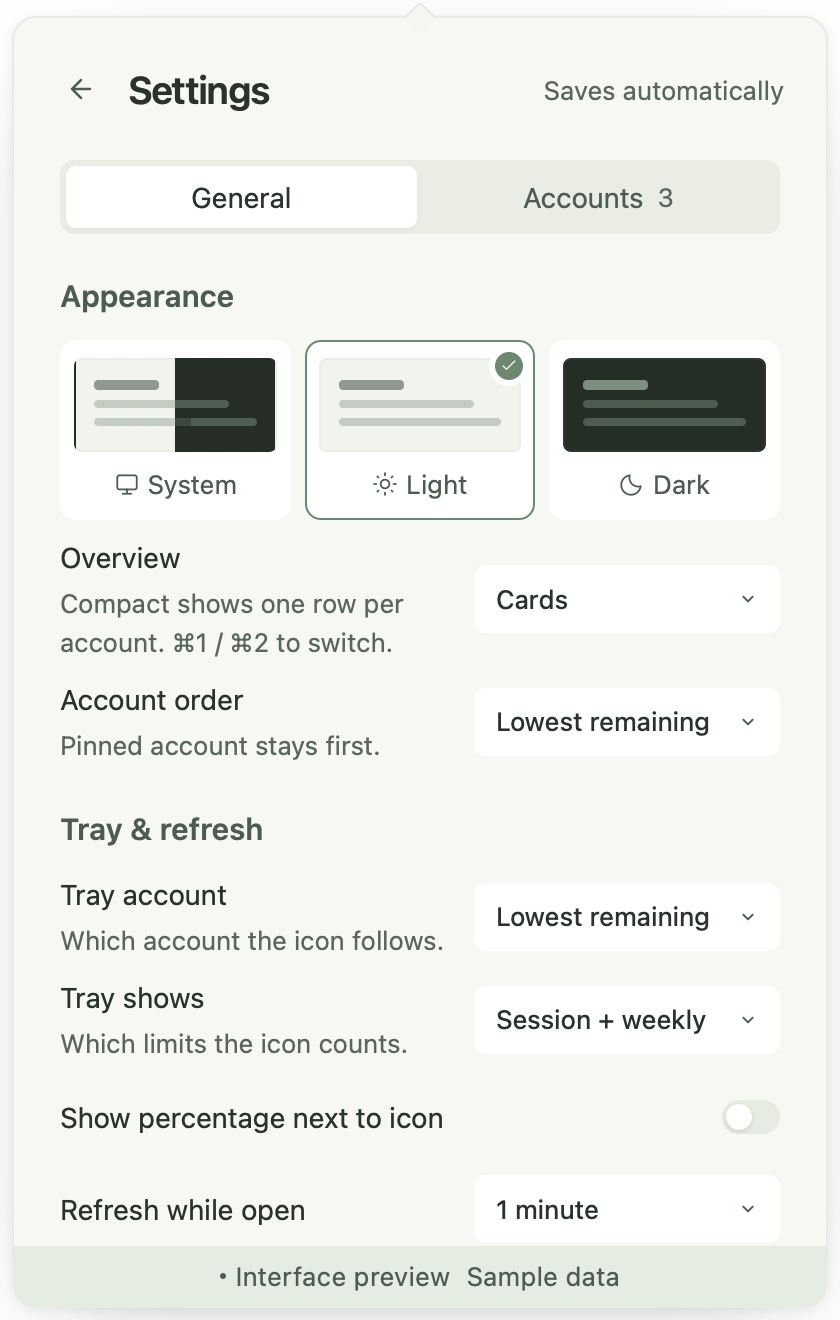
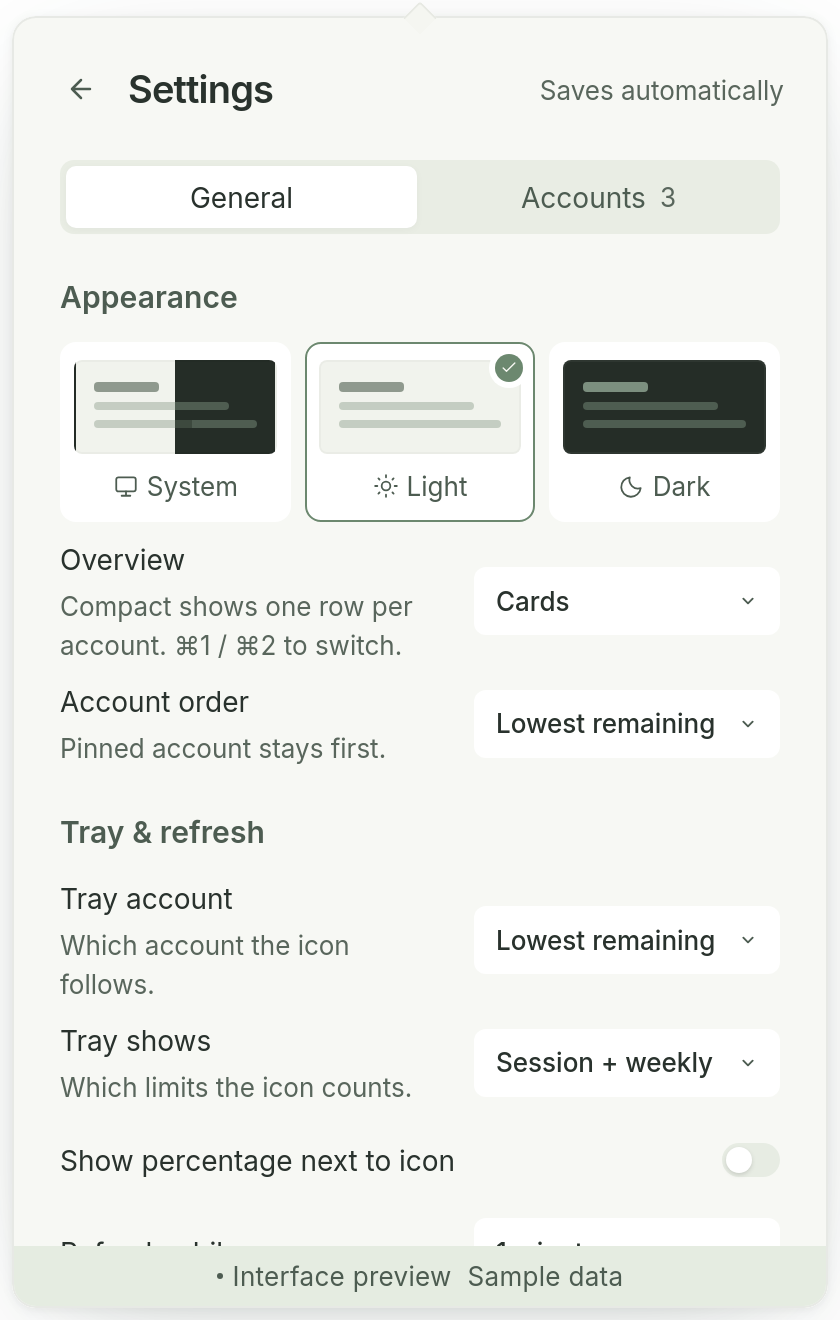
docs(readme): add hero image and refresh screenshots for launch
Lead the README with a hero image (menu bar, popover, and margin --line
in a terminal), a two-step install, the Claude Code statusline setup,
and compact/history previews. Move the full command line reference to
docs/cli.md and keep the #command-line anchor for older changelog links.

Recapture all sample-data screenshots from the current UI (v0.8.2) and
regenerate the social preview and site OG image, which still showed the
pre-v0.8 header. The demo GIF is outdated and no longer linked until it
is re-recorded.

diff --git a/README.md b/README.md
@@ -1,6 +1,6 @@
 # Margin
 
-**Claude Code and Codex usage in your menu bar.** See remaining quota and reset times across multiple accounts, from the macOS menu bar or the Windows system tray.
+**Claude Code and Codex usage in your menu bar.** Usage remaining and reset times for every account you use, in the macOS menu bar or the Windows system tray. Free and open source.
 
 [![CI](https://github.com/Abulkosim/margin/actions/workflows/ci.yml/badge.svg)](https://github.com/Abulkosim/margin/actions/workflows/ci.yml)
 [![Release](https://img.shields.io/github/v/release/Abulkosim/margin)](https://github.com/Abulkosim/margin/releases/latest)
@@ -9,23 +9,56 @@
 [![MIT license](https://img.shields.io/badge/license-MIT-747a87)](LICENSE)
 [![OpenSSF Scorecard](https://api.scorecard.dev/projects/github.com/Abulkosim/margin/badge)](https://scorecard.dev/viewer/?uri=github.com/Abulkosim/margin)
 
-[Download](https://github.com/Abulkosim/margin/releases/latest) · [Install](#install) · [Connect accounts](#connect-accounts) · [Privacy](#privacy) · [Changelog](CHANGELOG.md) · [Contributing](CONTRIBUTING.md)
+[Download](https://github.com/Abulkosim/margin/releases/latest) · [Install](#install) · [Connect accounts](#connect-accounts) · [Command line](#command-line) · [Privacy](#privacy) · [Changelog](CHANGELOG.md)
 
-<p>
-  <img src="docs/images/overview-light.png" alt="Margin overview with sample Claude and Codex accounts" width="300" />
-  <img src="docs/images/compact-light.png" alt="Margin compact overview with one row per sample account" width="300" />
-</p>
+<picture>
+  <source media="(prefers-color-scheme: dark)" srcset="docs/images/hero-dark.png" />
+  <img src="docs/images/hero-light.png" alt="Margin popover open below its menu bar icon, next to a terminal running margin --line, with sample accounts" width="880" />
+</picture>
 
-Interface preview with sample data; real menu-bar screenshots to follow.
+<sub>Interface preview with sample data.</sub>
 
-<p><img src="docs/images/demo.gif" alt="Margin popover opening from the menu bar with sample data" width="600" /></p>
+## Install
+
+1. Download **v0.8.2**: [macOS 12+ (Universal DMG)](https://github.com/Abulkosim/margin/releases/download/v0.8.2/Margin_0.8.2_universal.dmg) · [Windows x64 (Setup EXE)](https://github.com/Abulkosim/margin/releases/download/v0.8.2/Margin_0.8.2_x64-setup.exe) · [MSI](https://github.com/Abulkosim/margin/releases/download/v0.8.2/Margin_0.8.2_x64_en-US.msi)
+2. Open it. Margin finds the Claude Code and Codex sign-ins already on your computer.
+
+Builds are not signed with an Apple Developer ID or Windows publisher certificate, so the first launch shows a warning:
+
+- **macOS.** Drag Margin to Applications and open it. On macOS 15 and later, when **“Margin” Not Opened** appears, click **Done**, then **System Settings → Privacy & Security → Open Anyway**. Margin lives in the menu bar, with no Dock icon.
+- **Windows.** On **Windows protected your PC**, click **More info → Run anyway**. Smart App Control blocks unsigned apps.
+
+Updates are signed and verified in the app. Margin checks daily and never installs on its own. Homebrew and winget are not available yet. Full guide with uninstall: [docs/install.md](docs/install.md).
 
 ## What it shows
 
 - **Many accounts at once.** Finds existing Claude Code and Codex sign-ins, including separate configuration folders; add more in Settings.
+- **Make active.** Switch which account Claude Code or Codex uses, after a confirmation, with a backup of the previous sign-in.
 - **Session, weekly, and model limits.** Usage remaining, reset countdown and time, and a pace line: "On pace", or when usage runs out at the current rate.
 - **Last-known values, labeled.** A failed request keeps the last reading with its age. Missing data stays unknown, never guessed.
 - **Alerts.** Notifications at thresholds you choose (50–100%), and optionally when a limit resets.
+
+## Command line
+
+`margin --line` prints the usage Margin last saved, without a network request:
+
+```text
+Claude 72%·2h18m   42%·4d6h   │ Codex 91%·3h40m   68%·5d2h
+```
+
+Use it as your Claude Code statusline. In `~/.claude/settings.json`:
+
+```json
+{
+  "statusLine": {
+    "type": "command",
+    "command": "/Applications/Margin.app/Contents/MacOS/margin --line",
+    "refreshInterval": 60
+  }
+}
+```
+
+`--all` prints one row per account and `--json` prints everything. Flags, Windows paths, colors and the JSON schema: [docs/cli.md](docs/cli.md).
 
 ## Why Margin
 
@@ -41,32 +74,13 @@ Interface preview with sample data; real menu-bar screenshots to follow.
 
 CodexBar supports about 100 providers; pick it if you need more than Claude and Codex.
 
-## Install
+## Screenshots
 
-Download **v0.8.2** from [GitHub Releases](https://github.com/Abulkosim/margin/releases/latest). It fixes stale accounts, alerts and history, and makes Make active safer. Homebrew and winget are not available yet. Step-by-step guide with uninstall: [docs/install.md](docs/install.md).
+| Compact overview | History |
+| :-: | :-: |
+| <picture><source media="(prefers-color-scheme: dark)" srcset="docs/images/compact-dark.png" /><img src="docs/images/compact-light.png" alt="Compact overview with one row per sample account" width="300" /></picture> | <picture><source media="(prefers-color-scheme: dark)" srcset="docs/images/history-dark.png" /><img src="docs/images/history-light.png" alt="Seven-day session history for a sample account" width="300" /></picture> |
 
-| Platform | Download |
-| --- | --- |
-| macOS 12+ · Apple Silicon and Intel | [Universal DMG](https://github.com/Abulkosim/margin/releases/download/v0.8.2/Margin_0.8.2_universal.dmg) |
-| Windows x64 | [Setup EXE](https://github.com/Abulkosim/margin/releases/download/v0.8.2/Margin_0.8.2_x64-setup.exe) · [MSI](https://github.com/Abulkosim/margin/releases/download/v0.8.2/Margin_0.8.2_x64_en-US.msi) |
-
-Builds are not signed with an Apple Developer ID or Windows publisher certificate, so the first launch shows a warning. Updates are signed and verified in the app.
-
-**macOS.** Drag Margin to Applications and open it. On macOS 15 and later, when **“Margin” Not Opened** appears, click **Done**, then **System Settings → Privacy & Security → Open Anyway**. Margin lives in the menu bar, with no Dock icon. [Details](docs/install.md#macos).
-
-**Windows.** Run the `-setup.exe` (or `.msi`). On **Windows protected your PC**, click **More info → Run anyway**. Smart App Control blocks unsigned apps. [Details](docs/install.md#windows).
-
-**Updates.** Margin checks daily and never installs on its own; turn it off in **Settings → Updates**. [Details](docs/install.md#updates).
-
-### Verify a download
-
-Compare checksums with `SHA256SUMS.txt`, and check the build attestation:
-
-```sh
-gh attestation verify Margin_<version>_universal.dmg --repo Abulkosim/margin
-```
-
-Both platforms: [docs/install.md](docs/install.md#verify-a-download).
+<sub>Interface previews with sample data.</sub>
 
 ## Connect accounts
 
@@ -89,52 +103,15 @@ Signed out? Margin shows the command to run. For a custom Codex account, run `co
 
 Provider usage endpoints are undocumented and may change. A displayed quota is the provider's reading, not a guarantee that the next request will be accepted.
 
-## Command line
+## Verify a download
 
-The app binary prints the usage Margin last saved. It makes no network requests and works whether or not Margin is running.
-
-```sh
-/Applications/Margin.app/Contents/MacOS/margin --line
-# Claude 42%·2h18m   86%·2d     │ Codex 95%·45m     60%·4d
-/Applications/Margin.app/Contents/MacOS/margin --line --all
-# Personal 42%·2h18m   86%·2d
-# Work     71%·4h02m   12%·18h
-# Codex    95%·45m     60%·4d
-/Applications/Margin.app/Contents/MacOS/margin --line --short    # Personal 42% · resets 16:30
-/Applications/Margin.app/Contents/MacOS/margin --json
-```
-
-Installed in `~/Applications`? Use that path instead. To type `margin`, link it into a folder on your `PATH`:
+Compare checksums with `SHA256SUMS.txt`, and check the build attestation:
 
 ```sh
-ln -s /Applications/Margin.app/Contents/MacOS/margin ~/.local/bin/margin
+gh attestation verify Margin_<version>_universal.dmg --repo Abulkosim/margin
 ```
 
-On Windows, run `%LOCALAPPDATA%\Margin\Margin.exe --line` (MSI installs: `C:\Program Files\Margin\Margin.exe`). It is a windowed app, so the shell may print its prompt before the output; pipes and redirects work as usual.
-
-`--line` prints one Claude and one Codex account: usage remaining and time to reset for the session window, then the weekly window. Columns have fixed widths, so the line does not shift between refreshes. `–` means the provider did not report that window, `~42%` means the reading is old, and `signed out`, `no data` or `…` replace the numbers when there are none. With several accounts for a provider, it shows the one your terminal uses (`CLAUDE_CONFIG_DIR`, `CODEX_HOME`, else `~/.claude` and `~/.codex`), or the tray account when none matches. Set `COLUMNS` and the line shrinks to fit: first the countdowns go, then the labels shorten, then the weekly window goes.
-
-`--all` prints one row per account, Claude first, in your account order. `--short` prints the one-account form from v0.7 (`--short --all`: `Personal 42% · Work 68%`), following **Tray account** and **Tray shows** in Settings.
-
-Colors: on in a terminal or under Claude Code, off when piped or when `NO_COLOR` is set; `--color` and `--no-color` override. Only the 16 basic colors are used, so your terminal theme applies: yellow below 40% remaining, red below 20%, bold red at 0%.
-
-`--json` prints `{"schema": 1, "generatedAt", "appRunning", "accounts": [...]}`. `appRunning` is left out when Margin can't tell. Each account has `id`, `provider`, `label`, `email`, `plan`, `fetchedAt`, `stale`, `status` (`ok`, `stale`, `signedOut`, `error`, `pending`), `error` (`kind`, `message`), and `windows` with `id`, `label`, `scope` (`core`, `model`, `other`), `usedPercent`, `remainingPercent`, `resetsAt`. New fields may be added; `schema` changes only when existing fields change. The output contains account emails but never tokens.
-
-Exit codes: `0` ok, `1` no accounts or unreadable settings, `2` bad arguments. `MARGIN_DATA_DIR` points it at another settings folder (used by tests).
-
-**Claude Code statusline.** In `~/.claude/settings.json`:
-
-```json
-{
-  "statusLine": {
-    "type": "command",
-    "command": "/Applications/Margin.app/Contents/MacOS/margin --line",
-    "refreshInterval": 60
-  }
-}
-```
-
-`refreshInterval` keeps the countdowns moving while the session is idle. Claude Code sets `COLUMNS`, so the line fits the terminal. Codex's own status line only shows its built-in items and cannot run a command, so Margin cannot feed it; Codex users see their limits in the Codex TUI and in Margin.
+Both platforms: [docs/install.md](docs/install.md#verify-a-download).
 
 ## Privacy
 

diff --git a/docs/screenshots.md b/docs/screenshots.md
@@ -2,9 +2,9 @@
 
 Public images use explicit sample accounts. Capture from `?demo=1`; never publish a live account, email, configuration path, or credential.
 
-## v0.5.0 captures
+## v0.8.2 captures (2026-11-02)
 
-Use WebKit at 420×660 CSS pixels and 2× scale. Preserve the sample-data label. Visually inspect each image before linking it in the README or release notes.
+Use Playwright WebKit at 420×660 CSS pixels and 2× scale, with Inter installed so the UI font matches macOS (Linux falls back to DejaVu otherwise). Pass `&theme=light` or `&theme=dark`. Preserve the sample-data label. Visually inspect each image before linking it in the README or release notes.
 
 | Image | State |
 | --- | --- |
@@ -18,15 +18,19 @@ All nine PNGs are 840×1320 pixels and retain the sample-data label. `site/overv
 
 Caption browser captures as browser previews with sample data. Native screenshots need their own platform label. Release image URLs should use the release tag, not `main`.
 
+## README hero
+
+`docs/images/hero-light.png` and `hero-dark.png` (2400×1520) are composites, not native screenshots: a plain menu bar drawn in HTML with the tray ring (lowest account, Studio session at 18%, template style from `src-tauri/src/core/ring.rs`), the `?demo=1` popover captured with a transparent background, and a terminal showing `margin --line` for the sample Personal and Work accounts (format per the `cli.rs` tests). A “Preview with sample data” label stays visible. No OS or vendor marks.
+
 ## Demo GIF and social preview
 
 Both are browser previews with sample data (`?demo=1`, light theme), not recordings of the native menu bar. The sample-data label stays visible.
 
 | Image | Size | State |
 | --- | --- | --- |
-| `docs/images/demo.gif` | 420×660, 15 fps, 15 s, about 2.1 MB | Overview → Fable chip tooltip → History on Personal → Weekly tab → hide history → Settings → Overview: Compact → compact list. 1 s hold at start and end. |
-| `docs/images/social-preview.png` | 1280×640, about 90 KB | Wordmark, “Claude Code and Codex usage in your menu bar”, “macOS · Windows · Free · MIT”, and `overview-light.png`. Upload in repo Settings → Social preview. |
+| `docs/images/demo.gif` | 420×660, 15 fps, 15 s, about 2.1 MB. Predates the v0.8 header; not linked from the README until re-recorded. | Overview → Fable chip tooltip → History on Personal → Weekly tab → hide history → Settings → Overview: Compact → compact list. 1 s hold at start and end. |
+| `docs/images/social-preview.png` | 1280×640, about 95 KB. `site/og.png` uses the same layout with “Multiple accounts · macOS and Windows · Open source”. | Wordmark, “Claude Code and Codex usage in your menu bar”, “macOS · Windows · Free · MIT”, and `overview-light.png`. Upload in repo Settings → Social preview. |
 
 The GIF is recorded with Playwright Chromium `recordVideo` (420×660 viewport, 2× scale, video at 420×660) and converted with ffmpeg using a two-pass palette (`palettegen`, `paletteuse`). Playwright’s bundled ffmpeg has no palette filters; use a full ffmpeg build. Reset countdowns change once a minute, so the GIF has no countdown beat.
 
-To regenerate, run `pnpm dev --port 1437 --strictPort`, then `node record.mjs <repo>` and `node social.mjs <repo>`. The scripts are in the session scratchpad (`demo/record.mjs`, `demo/social.mjs`, `demo/og.html`) and are not committed. `social.mjs` embeds the current `docs/images/overview-light.png`.
+To regenerate, run `pnpm dev --port 1437 --strictPort` and capture with Playwright WebKit; the capture, hero and social scripts are not committed. `social.mjs` embeds the current `docs/images/overview-light.png`.

diff --git a/docs/cli.md b/docs/cli.md
@@ -1,0 +1,49 @@
+# Command line
+
+The app binary prints the usage Margin last saved. It makes no network requests and works whether or not Margin is running.
+
+```sh
+/Applications/Margin.app/Contents/MacOS/margin --line
+# Claude 42%·2h18m   86%·2d     │ Codex 95%·45m     60%·4d
+/Applications/Margin.app/Contents/MacOS/margin --line --all
+# Personal 42%·2h18m   86%·2d
+# Work     71%·4h02m   12%·18h
+# Codex    95%·45m     60%·4d
+/Applications/Margin.app/Contents/MacOS/margin --line --short    # Personal 42% · resets 16:30
+/Applications/Margin.app/Contents/MacOS/margin --json
+```
+
+Installed in `~/Applications`? Use that path instead. To type `margin`, link it into a folder on your `PATH`:
+
+```sh
+ln -s /Applications/Margin.app/Contents/MacOS/margin ~/.local/bin/margin
+```
+
+On Windows, run `%LOCALAPPDATA%\Margin\Margin.exe --line` (MSI installs: `C:\Program Files\Margin\Margin.exe`). It is a windowed app, so the shell may print its prompt before the output; pipes and redirects work as usual.
+
+`--line` prints one Claude and one Codex account: usage remaining and time to reset for the session window, then the weekly window. Columns have fixed widths, so the line does not shift between refreshes. `–` means the provider did not report that window, `~42%` means the reading is old, and `signed out`, `no data` or `…` replace the numbers when there are none. With several accounts for a provider, it shows the one your terminal uses (`CLAUDE_CONFIG_DIR`, `CODEX_HOME`, else `~/.claude` and `~/.codex`), or the tray account when none matches. Set `COLUMNS` and the line shrinks to fit: first the countdowns go, then the labels shorten, then the weekly window goes.
+
+`--all` prints one row per account, Claude first, in your account order. `--short` prints the one-account form from v0.7 (`--short --all`: `Personal 42% · Work 68%`), following **Tray account** and **Tray shows** in Settings.
+
+Colors: on in a terminal or under Claude Code, off when piped or when `NO_COLOR` is set; `--color` and `--no-color` override. Only the 16 basic colors are used, so your terminal theme applies: yellow below 40% remaining, red below 20%, bold red at 0%.
+
+`--json` prints `{"schema": 1, "generatedAt", "appRunning", "accounts": [...]}`. `appRunning` is left out when Margin can't tell. Each account has `id`, `provider`, `label`, `email`, `plan`, `fetchedAt`, `stale`, `status` (`ok`, `stale`, `signedOut`, `error`, `pending`), `error` (`kind`, `message`), and `windows` with `id`, `label`, `scope` (`core`, `model`, `other`), `usedPercent`, `remainingPercent`, `resetsAt`. New fields may be added; `schema` changes only when existing fields change. The output contains account emails but never tokens.
+
+Exit codes: `0` ok, `1` no accounts or unreadable settings, `2` bad arguments. `MARGIN_DATA_DIR` points it at another settings folder (used by tests).
+
+## Claude Code statusline
+
+In `~/.claude/settings.json`:
+
+```json
+{
+  "statusLine": {
+    "type": "command",
+    "command": "/Applications/Margin.app/Contents/MacOS/margin --line",
+    "refreshInterval": 60
+  }
+}
+```
+
+`refreshInterval` keeps the countdowns moving while the session is idle. Claude Code sets `COLUMNS`, so the line fits the terminal. Codex's own status line only shows its built-in items and cannot run a command, so Margin cannot feed it; Codex users see their limits in the Codex TUI and in Margin.
+
